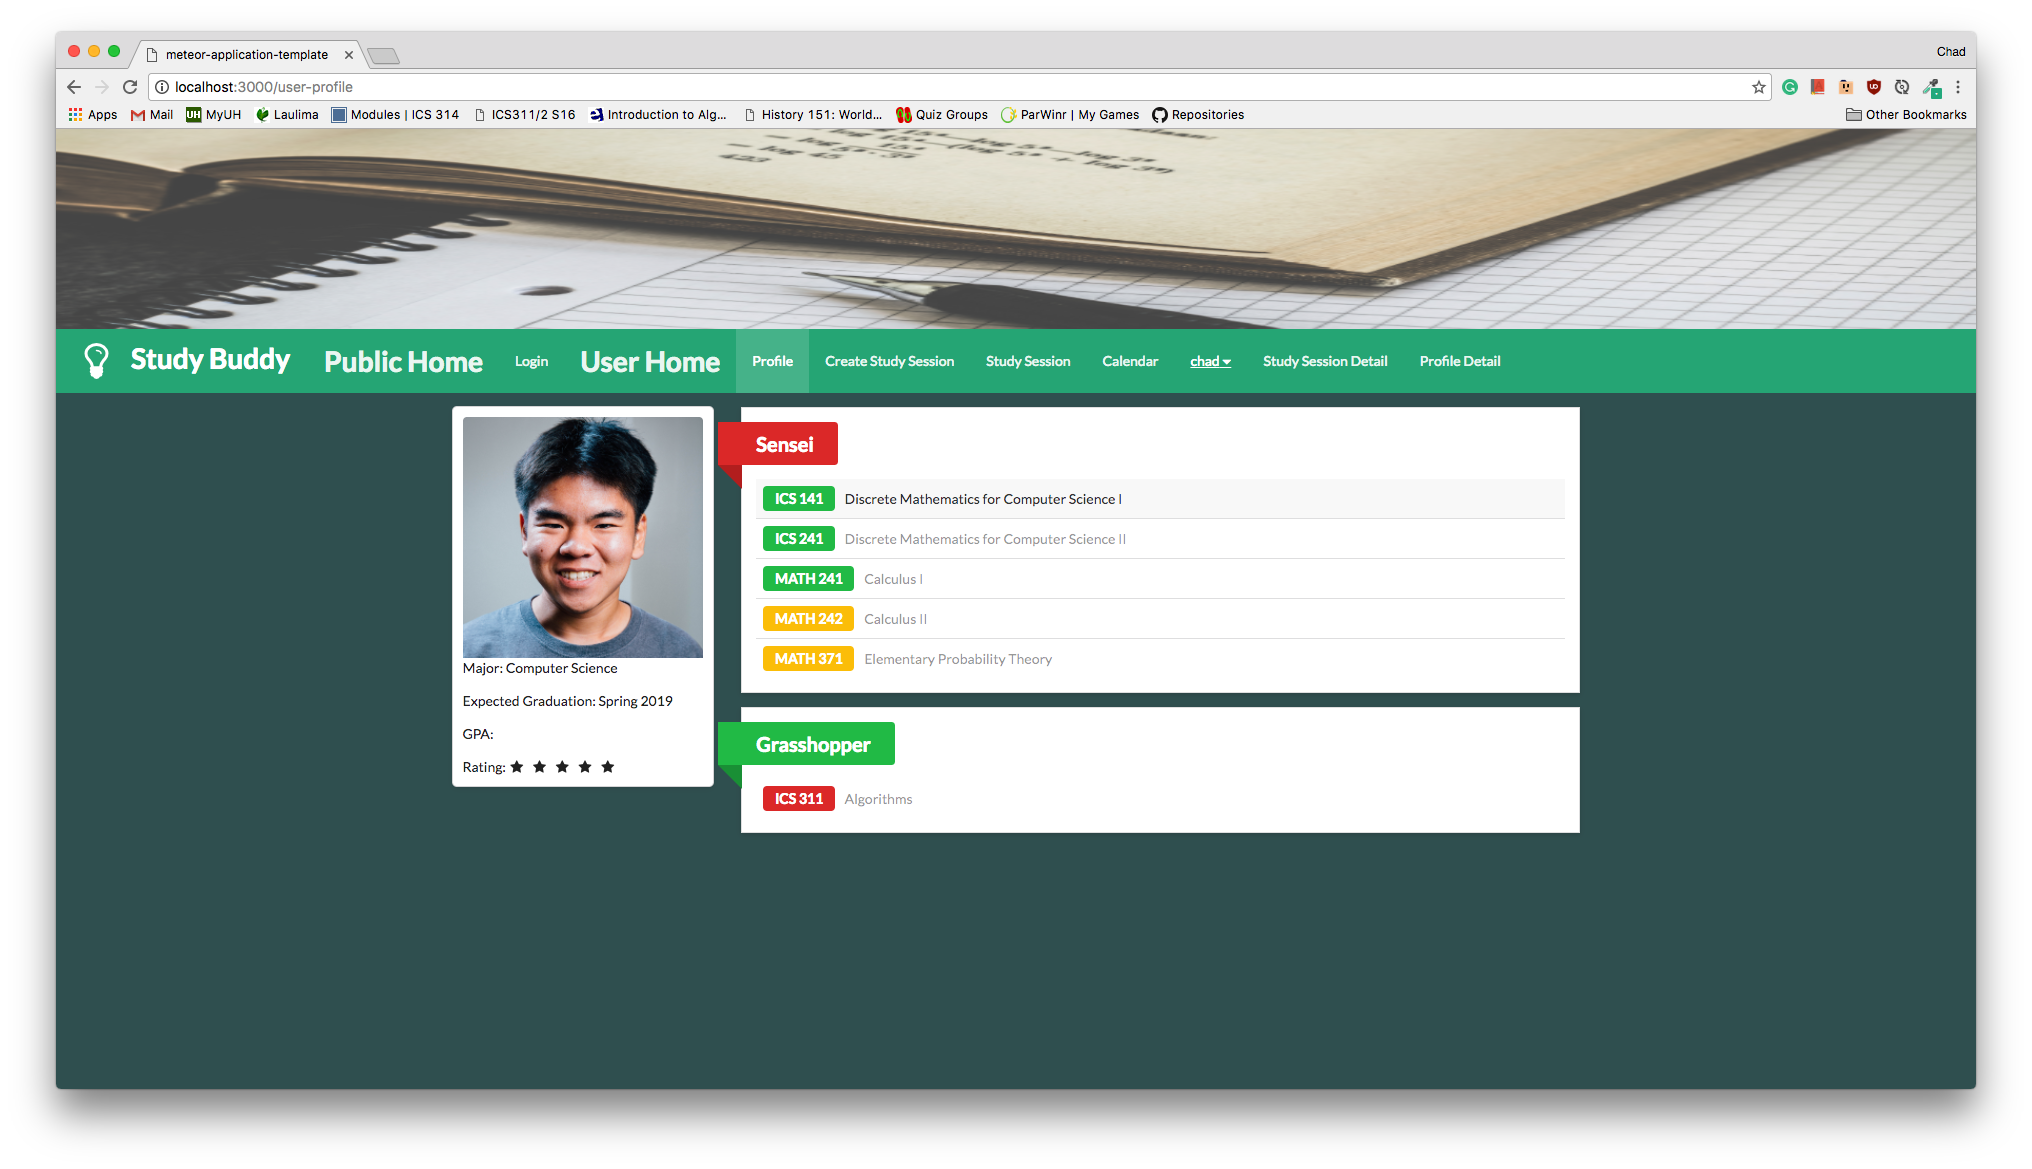
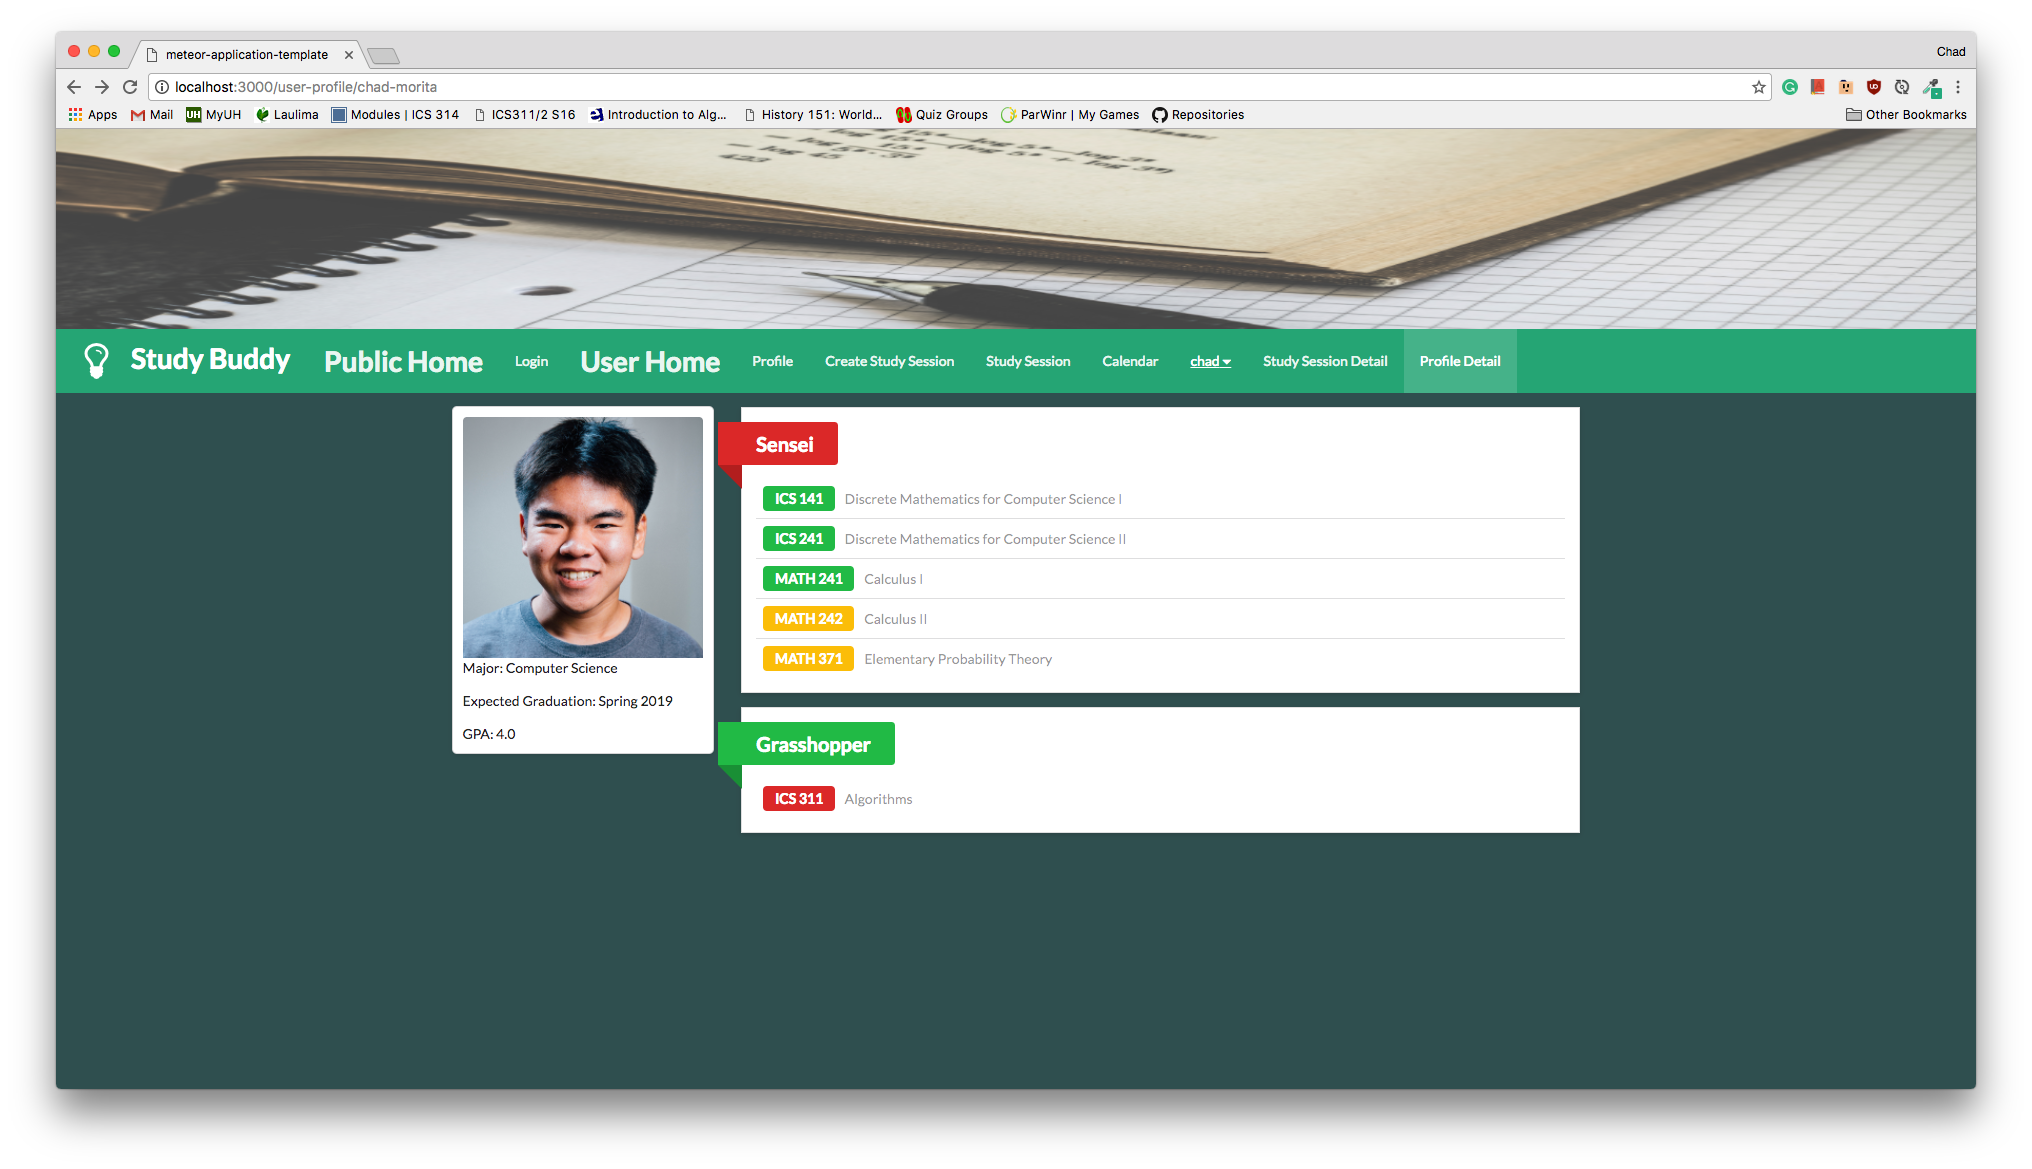
fixed profile page

diff --git a/app/imports/ui/pages/user-profile-detail-page.html b/app/imports/ui/pages/user-profile-detail-page.html
@@ -8,8 +8,6 @@
           <p>Major: Computer Science</p>
           <p>Expected Graduation: Spring 2019</p>
           <p>GPA: 4.0</p>
-          <p>Rating: <i class="star icon"></i> <i class="star icon"></i> <i class="star icon"></i> <i
-              class="star icon"></i> <i class="star icon"></i></p>
         </div>
       </div>
 

diff --git a/app/imports/ui/pages/user-profile-page.html b/app/imports/ui/pages/user-profile-page.html
@@ -8,8 +8,6 @@
           <p>Major: Computer Science</p>
           <p>Expected Graduation: Spring 2019</p>
           <p>GPA: 4.0</p>
-          <p>Rating: <i class="star icon"></i> <i class="star icon"></i> <i class="star icon"></i> <i
-              class="star icon"></i> <i class="star icon"></i></p>
         </div>
       </div>
 
